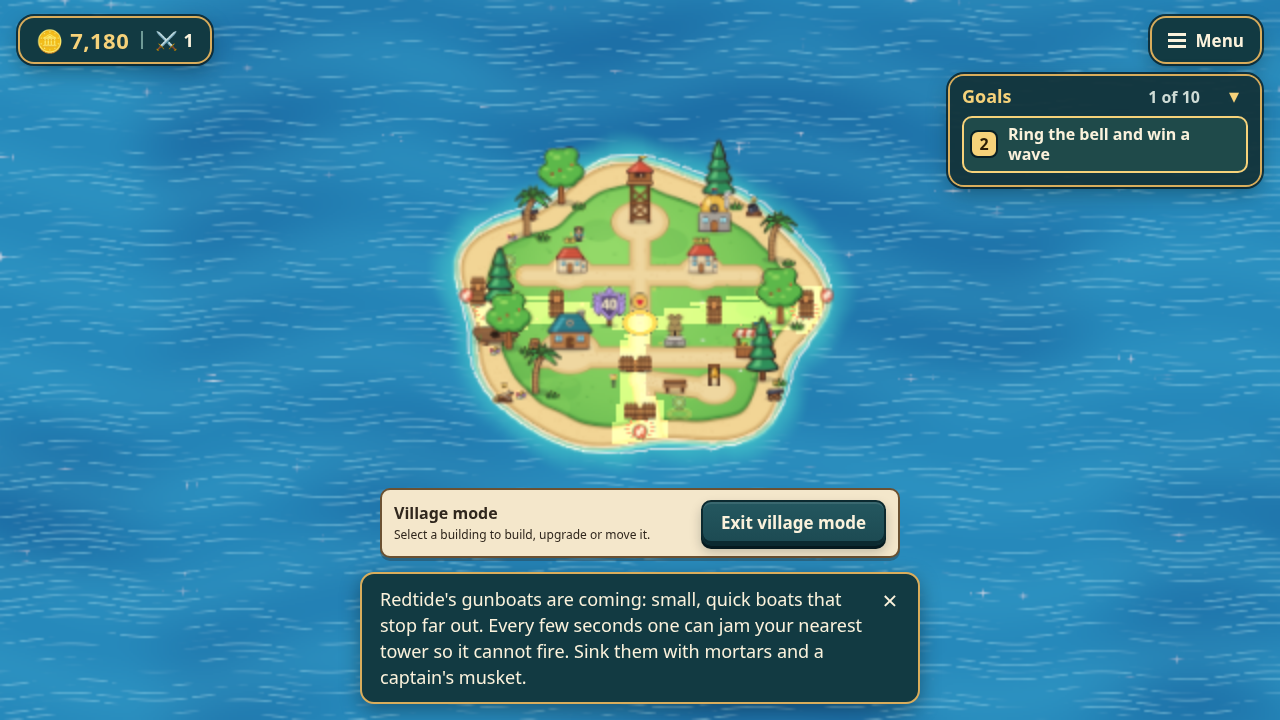
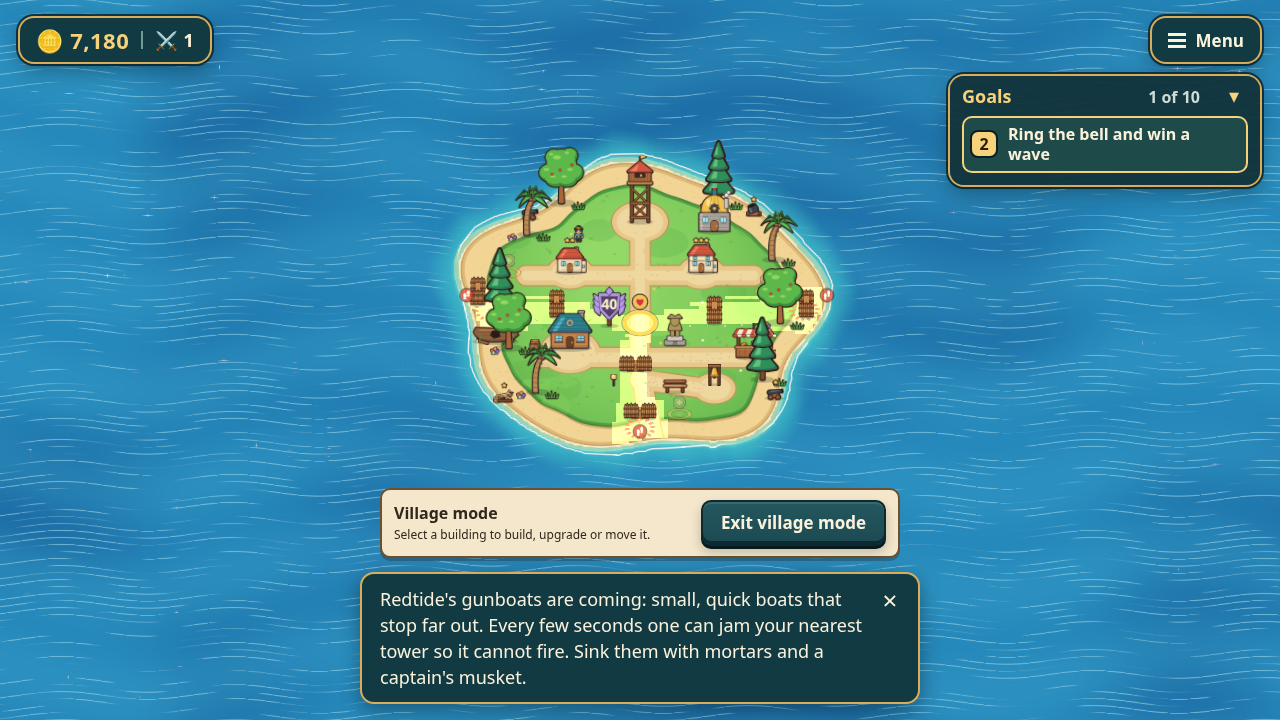
fix: refresh village framing when move feedback wraps

diff --git a/frontend/src/game.js b/frontend/src/game.js
@@ -266,16 +266,20 @@ export async function startGame({container,shell,audio,captions,adapter,isAppBlo
     return wavesLoad;
   }
   const projected=new THREE.Vector3(),canvas=graphics.renderer.domElement;
-  let villageLayoutKey='',villageViewport=null,villageQuests=null;
+  let villageLayoutKey='',villageViewport=null,villageQuests=null,villageBar=null,villagePlacing=null;
   function updateVillageView(){
     const managing=island?.managing===true&&!inBattle;
-    if(!managing){villageLayoutKey='';view.setVillageView(false);return;}
+    if(!managing){villageLayoutKey='';villageBar=null;view.setVillageView(false);return;}
     const width=parseFloat(canvas.style.width)||window.innerWidth,height=parseFloat(canvas.style.height)||window.innerHeight;
     villageQuests??=container.querySelector('.quest-strip');
     const caption=document.documentElement.style.getPropertyValue('--narrator-card-height');
-    const key=`${width}:${height}:${caption}:${villageQuests?.textContent}:${villageQuests?.className}:${!!island.moving}`;
+    const placing=!!island.moving;
+    if(!villageBar?.isConnected||villagePlacing!==placing){
+      villageBar=container.querySelector(placing?'.island-move-bar:not([hidden])':'.island-village-mode:not([hidden])');villagePlacing=placing;
+    }
+    const key=`${width}:${height}:${caption}:${villageQuests?.textContent}:${villageQuests?.className}:${placing}:${villageBar?.textContent}:${villageBar?.className}:${document.documentElement.className}:${document.body.className}`;
     if(key!==villageLayoutKey){
-      const bar=container.querySelector(island.moving?'.island-move-bar:not([hidden])':'.island-village-mode:not([hidden])');
+      const bar=villageBar;
       const top=width<640?villageQuests?.getBoundingClientRect().bottom??80:80;
       villageViewport={height,top:Math.max(80,top+12),bottom:bar?height-bar.getBoundingClientRect().top+12:112};
       villageLayoutKey=key;

diff --git a/specs/COC-02-village-overview.md b/specs/COC-02-village-overview.md
@@ -26,7 +26,9 @@ returns to the captain and the player's previous exploration zoom on exit.
   It includes the existing wavy coast and space for buildings and screen UI.
 - The game measures the visible management/move bar and phone quest strip when
   the layout key changes. Caption-height changes, resize, quest content/folding
-  and entering placement invalidate that key. The camera fits and centers the
+  and entering placement invalidate that key. The active bar's text and classes
+  also invalidate it: a wrapped refusal must not keep the previous short bar's
+  inset while placement stays active. The camera fits and centers the
   base in the remaining vertical viewport rather than behind these overlays.
 - Reading the existing inline caption-height signal and canvas dimensions avoids
   measuring DOM rectangles every frame. No resize observer or new global UI
@@ -60,6 +62,9 @@ view. The existing input end-of-frame handling clears that wheel delta normally.
 - The actual current coastline's sampled land cells fit inside both 1280 × 720
   and 375 × 812 camera views, with a separate tall-building check.
 - Land cells and the tall-building point also fit between measured UI insets.
+- A recorded long client refusal grows the same active Move bar; the fit updates
+  before that bar can cover the southern land. The probe restores the client
+  adapter and cancels the uncommitted move without a server write.
 - Entering the view leaves the captain position unchanged.
 - Exiting restores the prior exploration zoom and follow position.
 - Combat and tutorial requests still work and are not overwritten.

diff --git a/docs/evidence/COC-02/README.md b/docs/evidence/COC-02/README.md
@@ -37,5 +37,13 @@ Reports: [before](report-before.json), [after](report-after.json). Desktop after
 land y=118.99–442.61, safe y=80–487.91. Phone after: see the exact measured bounds
 in the JSON. These are actual renderer measurements, not concept images.
 
+The after runner also enters a valid uncommitted Move and injects one documented
+client refusal. This is a controlled failure probe, not a live service outage.
+The message wraps in the same bar while `moving` stays true. Desktop bar top
+moves from 551.42 to 486.64 px; old framing put southern land at 507.90 px. Phone
+bar top moves from 582.53 to 452.97 px; old land was at 517.00 px. Both runs assert
+the stale frame would overlap and wait for the updated frame to clear the bar.
+Cancel and Exit then work through real controls. No move is committed.
+
 Broader build/budget/full-suite/UI checks are still pending at this commit. No
 merge, production, Safari or physical-device result is claimed.
